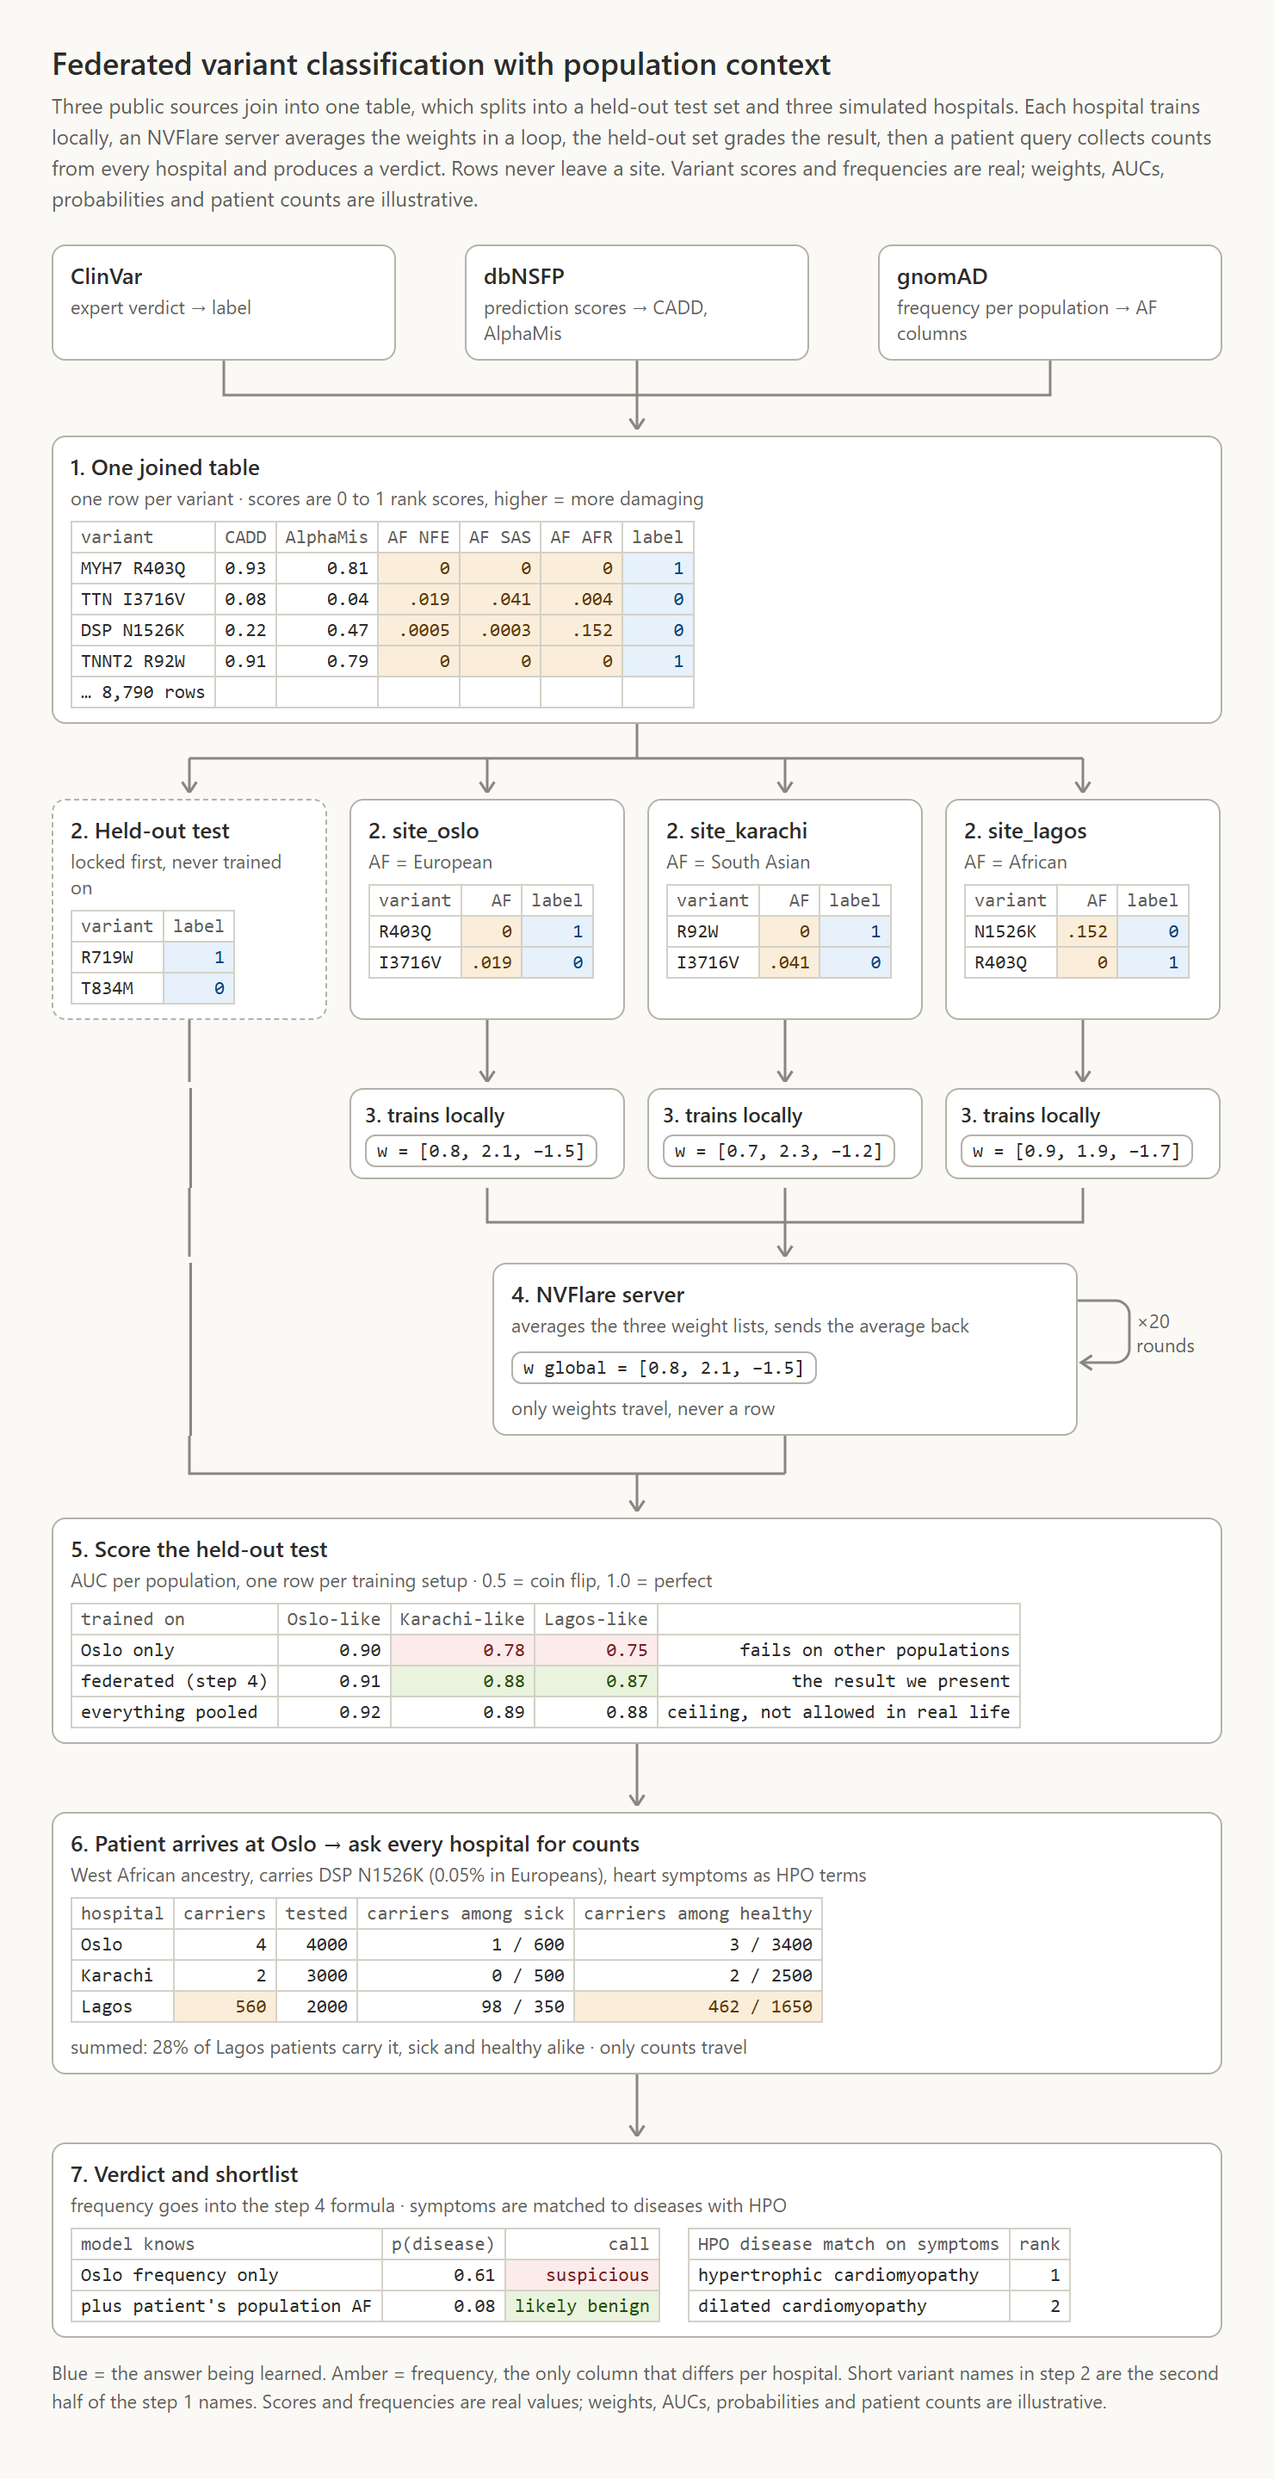
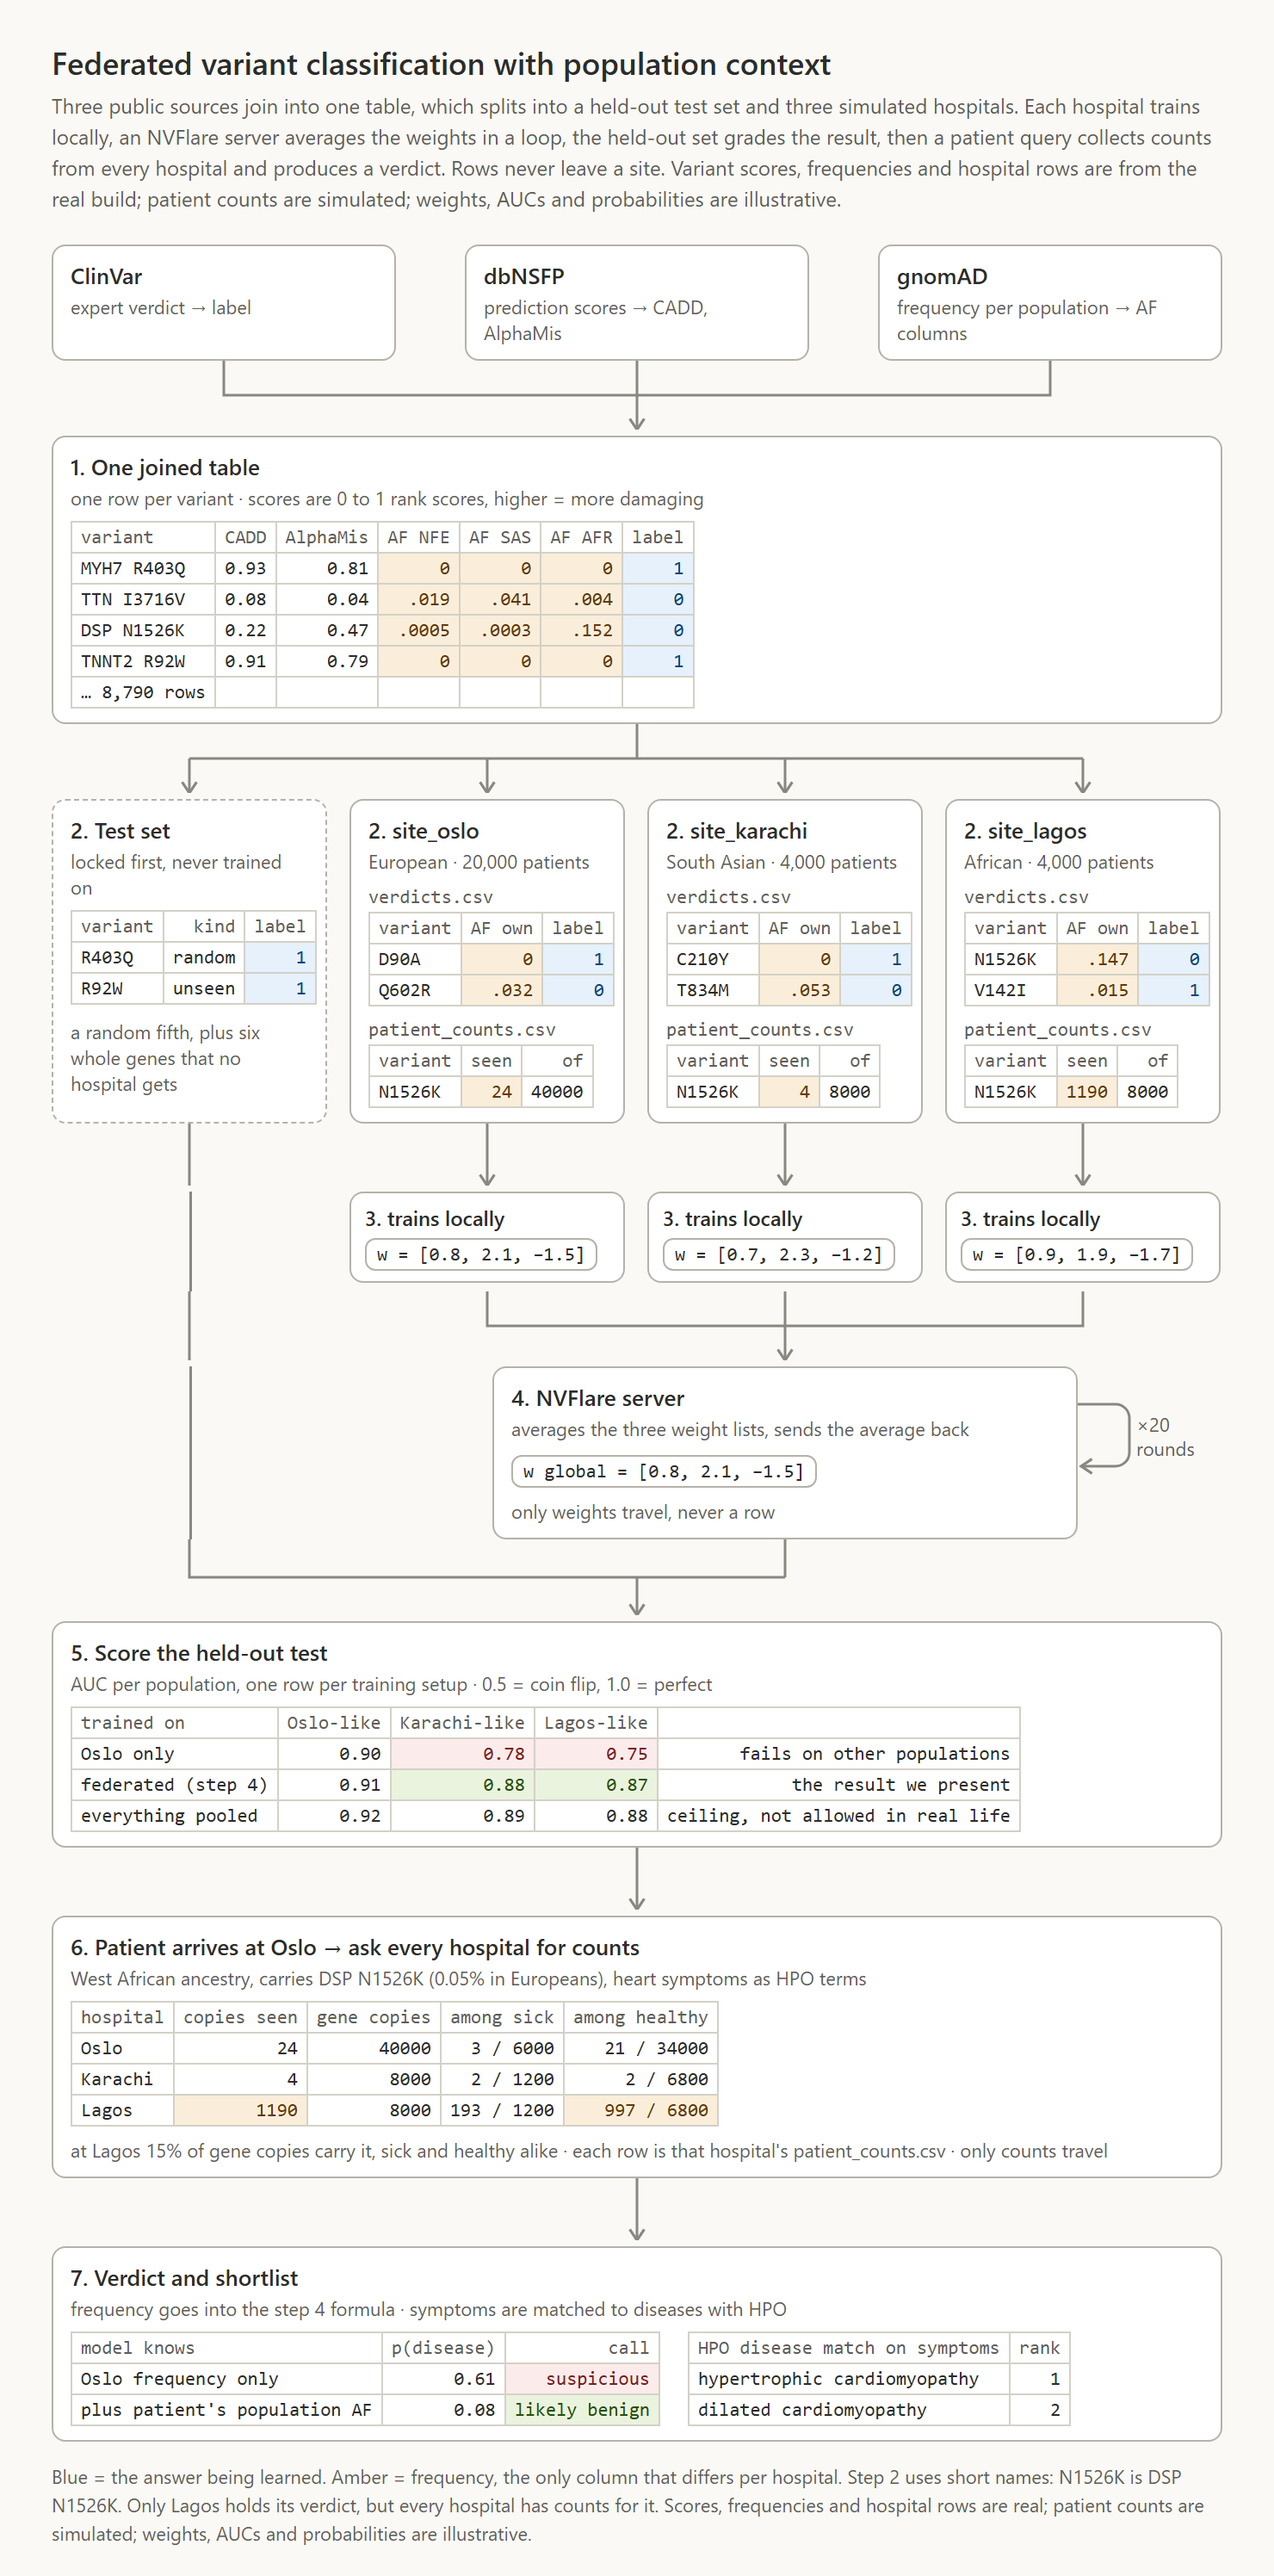
Redraw step 2 of the flowchart from the real build
Each hospital box now shows its two private files with real rows: only Lagos
holds the verdict on DSP N1526K, yet every hospital has patient counts for it.
The old picture showed the same variant in two hospitals, which the build never
does. Step 6 and the README now use the actual simulated counts. Image links
carry a version tag so GitHub stops serving cached copies.

Changed region(s): [[0.0311, 0.0, 0.9635, 1.0], [0.8703, 0.5312, 0.9324, 0.5625], [0.2797, 0.125, 0.3108, 0.1562]]

diff --git a/docs/pipeline_flowchart.html b/docs/pipeline_flowchart.html
@@ -25,13 +25,14 @@
   .ln{stroke:#888780;stroke-width:1.5;fill:none}
   .lane{position:absolute;left:80px;top:0;bottom:0;border-left:1.5px solid #888780}
   .legend{font-size:11px;color:#5f5e5a;margin:12px 0 0;line-height:1.5}
+  .file{font-family:ui-monospace,Menlo,Consolas,monospace;font-size:11px;color:#5f5e5a;margin:7px 0 2px}
 </style>
 </head>
 <body>
 <svg width="0" height="0" style="position:absolute" aria-hidden="true"><defs><marker id="ah" viewBox="0 0 10 10" refX="8" refY="5" markerWidth="7" markerHeight="7" orient="auto"><path d="M2 1L8 5L2 9" style="fill:none;stroke:#888780;stroke-width:1.5"/></marker></defs></svg>
 <div class="wrap"><div class="fc">
 <h1>Federated variant classification with population context</h1>
-<p class="intro">Three public sources join into one table, which splits into a held-out test set and three simulated hospitals. Each hospital trains locally, an NVFlare server averages the weights in a loop, the held-out set grades the result, then a patient query collects counts from every hospital and produces a verdict. Rows never leave a site. Variant scores and frequencies are real; weights, AUCs, probabilities and patient counts are illustrative.</p>
+<p class="intro">Three public sources join into one table, which splits into a held-out test set and three simulated hospitals. Each hospital trains locally, an NVFlare server averages the weights in a loop, the held-out set grades the result, then a patient query collects counts from every hospital and produces a verdict. Rows never leave a site. Variant scores, frequencies and hospital rows are from the real build; patient counts are simulated; weights, AUCs and probabilities are illustrative.</p>
 
 <div style="display:flex;gap:40px">
 <div class="box" style="width:200px"><p class="cap">ClinVar</p><p class="sub" style="margin:0">expert verdict → label</p></div>
@@ -50,14 +51,24 @@
 <svg width="680" height="40" aria-hidden="true"><path class="ln" d="M340 0V20M80 20H599"/><path class="ln" d="M80 20V40" marker-end="url(#ah)"/><path class="ln" d="M253 20V40" marker-end="url(#ah)"/><path class="ln" d="M426 20V40" marker-end="url(#ah)"/><path class="ln" d="M599 20V40" marker-end="url(#ah)"/></svg>
 
 <div style="display:flex;gap:13px;align-items:stretch">
-<div class="box" style="width:160px;border-style:dashed"><p class="cap">2. Held-out test</p><p class="sub">locked first, never trained on</p>
-<table class="tb"><tr><th>variant</th><th>label</th></tr><tr><td>R719W</td><td class="lab">1</td></tr><tr><td>T834M</td><td class="lab">0</td></tr></table></div>
-<div class="box" style="width:160px"><p class="cap">2. site_oslo</p><p class="sub">AF = European</p>
-<table class="tb"><tr><th>variant</th><th>AF</th><th>label</th></tr><tr><td>R403Q</td><td class="af">0</td><td class="lab">1</td></tr><tr><td>I3716V</td><td class="af">.019</td><td class="lab">0</td></tr></table></div>
-<div class="box" style="width:160px"><p class="cap">2. site_karachi</p><p class="sub">AF = South Asian</p>
-<table class="tb"><tr><th>variant</th><th>AF</th><th>label</th></tr><tr><td>R92W</td><td class="af">0</td><td class="lab">1</td></tr><tr><td>I3716V</td><td class="af">.041</td><td class="lab">0</td></tr></table></div>
-<div class="box" style="width:160px"><p class="cap">2. site_lagos</p><p class="sub">AF = African</p>
-<table class="tb"><tr><th>variant</th><th>AF</th><th>label</th></tr><tr><td>N1526K</td><td class="af">.152</td><td class="lab">0</td></tr><tr><td>R403Q</td><td class="af">0</td><td class="lab">1</td></tr></table></div>
+<div class="box" style="width:160px;border-style:dashed"><p class="cap">2. Test set</p><p class="sub">locked first, never trained on</p>
+<table class="tb"><tr><th>variant</th><th>kind</th><th>label</th></tr><tr><td>R403Q</td><td>random</td><td class="lab">1</td></tr><tr><td>R92W</td><td>unseen</td><td class="lab">1</td></tr></table>
+<p class="sub" style="margin:8px 0 0">a random fifth, plus six whole genes that no hospital gets</p></div>
+<div class="box" style="width:160px"><p class="cap">2. site_oslo</p><p class="sub">European · 20,000 patients</p>
+<p class="file">verdicts.csv</p>
+<table class="tb"><tr><th>variant</th><th>AF own</th><th>label</th></tr><tr><td>D90A</td><td class="af">0</td><td class="lab">1</td></tr><tr><td>Q602R</td><td class="af">.032</td><td class="lab">0</td></tr></table>
+<p class="file">patient_counts.csv</p>
+<table class="tb"><tr><th>variant</th><th>seen</th><th>of</th></tr><tr><td>N1526K</td><td class="af">24</td><td>40000</td></tr></table></div>
+<div class="box" style="width:160px"><p class="cap">2. site_karachi</p><p class="sub">South Asian · 4,000 patients</p>
+<p class="file">verdicts.csv</p>
+<table class="tb"><tr><th>variant</th><th>AF own</th><th>label</th></tr><tr><td>C210Y</td><td class="af">0</td><td class="lab">1</td></tr><tr><td>T834M</td><td class="af">.053</td><td class="lab">0</td></tr></table>
+<p class="file">patient_counts.csv</p>
+<table class="tb"><tr><th>variant</th><th>seen</th><th>of</th></tr><tr><td>N1526K</td><td class="af">4</td><td>8000</td></tr></table></div>
+<div class="box" style="width:160px"><p class="cap">2. site_lagos</p><p class="sub">African · 4,000 patients</p>
+<p class="file">verdicts.csv</p>
+<table class="tb"><tr><th>variant</th><th>AF own</th><th>label</th></tr><tr><td>N1526K</td><td class="af">.147</td><td class="lab">0</td></tr><tr><td>V142I</td><td class="af">.015</td><td class="lab">1</td></tr></table>
+<p class="file">patient_counts.csv</p>
+<table class="tb"><tr><th>variant</th><th>seen</th><th>of</th></tr><tr><td>N1526K</td><td class="af">1190</td><td>8000</td></tr></table></div>
 </div>
 <svg width="680" height="36" aria-hidden="true"><path class="ln" d="M80 0V36"/><path class="ln" d="M253 0V36" marker-end="url(#ah)"/><path class="ln" d="M426 0V36" marker-end="url(#ah)"/><path class="ln" d="M599 0V36" marker-end="url(#ah)"/></svg>
 
@@ -84,11 +95,11 @@
 <svg width="680" height="36" aria-hidden="true"><path class="ln" d="M340 0V36" marker-end="url(#ah)"/></svg>
 
 <div class="box" style="width:680px"><p class="cap">6. Patient arrives at Oslo → ask every hospital for counts</p><p class="sub">West African ancestry, carries DSP N1526K (0.05% in Europeans), heart symptoms as HPO terms</p>
-<table class="tb"><tr><th>hospital</th><th>carriers</th><th>tested</th><th>carriers among sick</th><th>carriers among healthy</th></tr>
-<tr><td>Oslo</td><td>4</td><td>4000</td><td>1 / 600</td><td>3 / 3400</td></tr>
-<tr><td>Karachi</td><td>2</td><td>3000</td><td>0 / 500</td><td>2 / 2500</td></tr>
-<tr><td>Lagos</td><td class="af">560</td><td>2000</td><td>98 / 350</td><td class="af">462 / 1650</td></tr></table>
-<p class="sub" style="margin:6px 0 0">summed: 28% of Lagos patients carry it, sick and healthy alike · only counts travel</p></div>
+<table class="tb"><tr><th>hospital</th><th>copies seen</th><th>gene copies</th><th>among sick</th><th>among healthy</th></tr>
+<tr><td>Oslo</td><td>24</td><td>40000</td><td>3 / 6000</td><td>21 / 34000</td></tr>
+<tr><td>Karachi</td><td>4</td><td>8000</td><td>2 / 1200</td><td>2 / 6800</td></tr>
+<tr><td>Lagos</td><td class="af">1190</td><td>8000</td><td>193 / 1200</td><td class="af">997 / 6800</td></tr></table>
+<p class="sub" style="margin:6px 0 0">at Lagos 15% of gene copies carry it, sick and healthy alike · each row is that hospital's patient_counts.csv · only counts travel</p></div>
 <svg width="680" height="36" aria-hidden="true"><path class="ln" d="M340 0V36" marker-end="url(#ah)"/></svg>
 
 <div class="box" style="width:680px"><p class="cap">7. Verdict and shortlist</p><p class="sub">frequency goes into the step 4 formula · symptoms are matched to diseases with HPO</p>
@@ -100,7 +111,7 @@
 <tr><td>hypertrophic cardiomyopathy</td><td>1</td></tr><tr><td>dilated cardiomyopathy</td><td>2</td></tr></table>
 </div></div>
 
-<p class="legend">Blue = the answer being learned. Amber = frequency, the only column that differs per hospital. Short variant names in step 2 are the second half of the step 1 names. Scores and frequencies are real values; weights, AUCs, probabilities and patient counts are illustrative.</p>
+<p class="legend">Blue = the answer being learned. Amber = frequency, the only column that differs per hospital. Step 2 uses short names: N1526K is DSP N1526K. Only Lagos holds its verdict, but every hospital has counts for it. Scores, frequencies and hospital rows are real; patient counts are simulated; weights, AUCs and probabilities are illustrative.</p>
 </div></div>
 </body>
 </html>

diff --git a/README.md b/README.md
@@ -15,7 +15,7 @@ Team 12: federated variant classification with population context
 
 **Short answer to how:** every hospital holds the same kind of table (variant, prediction scores, frequency, expert label). Each trains a small classifier on its own rows. An NVFlare server averages the model weights and sends them back. Only weights travel during training, and only counts travel when a patient is queried. Rows never leave.
 
-> Labels, scores and frequencies are real public data (ClinVar, dbNSFP, gnomAD). The hospitals and the demo patient are simulated. We never train on simulated labels. In the example tables, variant scores and frequencies are real values from our built table; model weights, AUCs, probabilities and hospital patient counts are illustrative.
+> Labels, scores and frequencies are real public data (ClinVar, dbNSFP, gnomAD). The hospitals and the demo patient are simulated. We never train on simulated labels. In the example tables, variant scores and frequencies are real values from our built table, and hospital patient counts are the ones step 2 simulates; model weights, AUCs and probabilities are illustrative.
 
 ---
 
@@ -41,12 +41,12 @@ Team 12: federated variant classification with population context
 
 ## 1. The pipeline in one picture
 
-![Seven-step pipeline: three sources join into one table, split into a held-out test set and three hospital sites, local training, NVFlare weight averaging, per-population AUC, a federated count query for a patient, and a verdict](docs/pipeline_flowchart.png)
+![Seven-step pipeline: three sources join into one table, split into a held-out test set and three hospital sites, local training, NVFlare weight averaging, per-population AUC, a federated count query for a patient, and a verdict](docs/pipeline_flowchart.png?v=3)
 
 Source for the picture: [docs/pipeline_flowchart.html](docs/pipeline_flowchart.html). Re-render with headless Chrome after editing:
 
 ```
-chrome --headless=new --hide-scrollbars --force-device-scale-factor=2 --window-size=740,1440 --screenshot=docs/pipeline_flowchart.png docs/pipeline_flowchart.html
+chrome --headless=new --hide-scrollbars --force-device-scale-factor=2 --window-size=740,1496 --screenshot=docs/pipeline_flowchart.png docs/pipeline_flowchart.html
 ```
 
 <details>
@@ -192,13 +192,13 @@ Expected shape: federated lands near pooled without anyone sharing rows, and the
 
 A patient of West African ancestry at Oslo carries `DSP N1526K` and has heart symptoms coded as HPO terms. Oslo's own data says the variant is rare: 0.05% in Europeans. In gnomAD it sits at 15% in African-ancestry samples, and ClinVar calls it benign. The query asks each hospital how many of its patients carry it and how many of those were sick.
 
-| hospital | carriers | tested | carriers among sick | carriers among healthy |
+| hospital | copies seen | gene copies looked at | among sick | among healthy |
 |---|---|---|---|---|
-| Oslo | 4 | 4000 | 1 / 600 | 3 / 3400 |
-| Karachi | 2 | 3000 | 0 / 500 | 2 / 2500 |
-| Lagos | 560 | 2000 | 98 / 350 | 462 / 1650 |
+| Oslo | 24 | 40,000 | 3 / 6,000 | 21 / 34,000 |
+| Karachi | 4 | 8,000 | 2 / 1,200 | 2 / 6,800 |
+| Lagos | 1,190 | 8,000 | 193 / 1,200 | 997 / 6,800 |
 
-Summed: 28% of Lagos patients carry it, sick and healthy alike. Only counts travel, never a patient record. The counts are simulated to match the real gnomAD frequencies.
+At Lagos 15% of gene copies carry it, among sick and healthy alike. Only counts travel, never a patient record. These are the actual rows of each site's `patient_counts.csv`, simulated by step 2 from the real gnomAD frequencies. In that build Lagos is also the only hospital holding a verdict on this variant.
 
 Each site answers with one row of its `patient_counts.csv`: `variant_id, ac, an, ac_affected, an_affected, ac_unaffected, an_unaffected`.
 
@@ -306,9 +306,9 @@ Scores to avoid as inputs: ClinPred, BayesDel, REVEL, MetaLR and similar meta-pr
 
 ## 8. Build status and how to run
 
-![Recipe status: steps 0 and 1 are built and tested, step 2 runs and is in review, steps 3 to 7 are not started](docs/recipe_status.png)
+![Recipe status: steps 0 and 1 are built and tested, step 2 runs and is in review, steps 3 to 7 are not started](docs/recipe_status.png?v=3)
 
-Green means the step runs from a fresh clone with the command shown. To update the picture, open [docs/recipe_status.html](docs/recipe_status.html), change a step's one-word status (`todo`, `next` or `done`), and re-render with the command at the top of that file.
+Green means the step runs from a fresh clone with the command shown. To update the picture, open [docs/recipe_status.html](docs/recipe_status.html), change a step's one-word status (`todo`, `next` or `done`), and re-render with the command at the top of that file. Then raise the `?v=` number on the image link above, otherwise GitHub keeps serving its cached copy of the old picture.
 
 Needs [uv](https://docs.astral.sh/uv/). Python 3.12 and the packages install themselves on first run.
 
